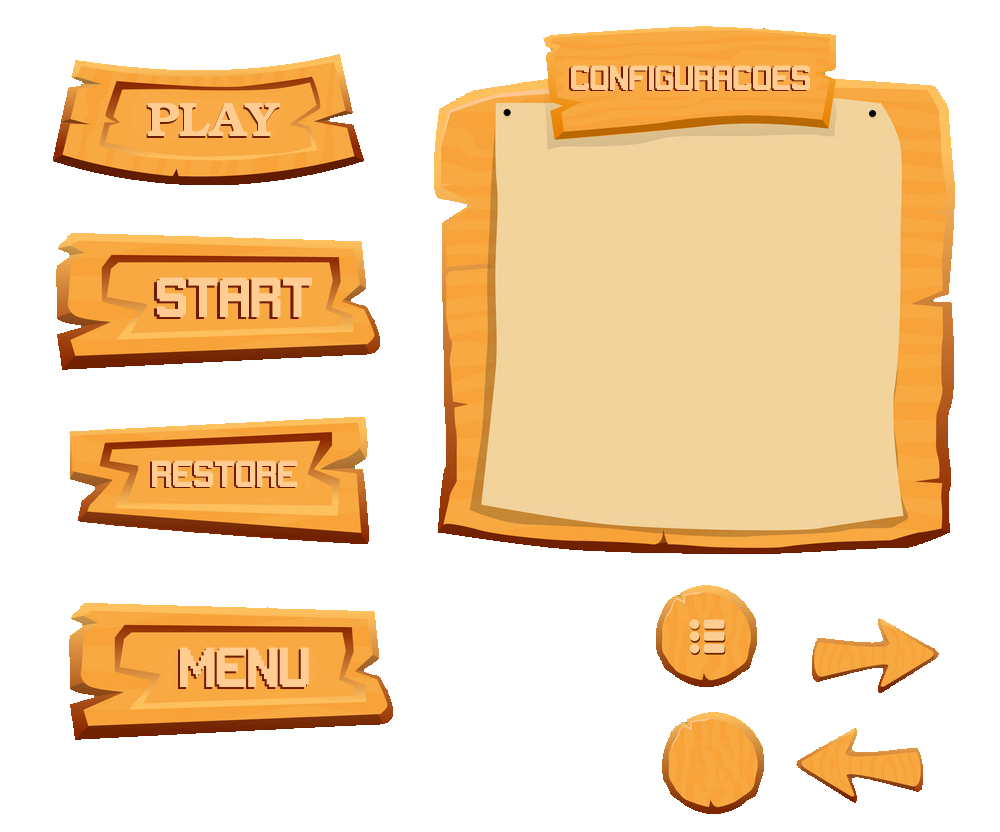
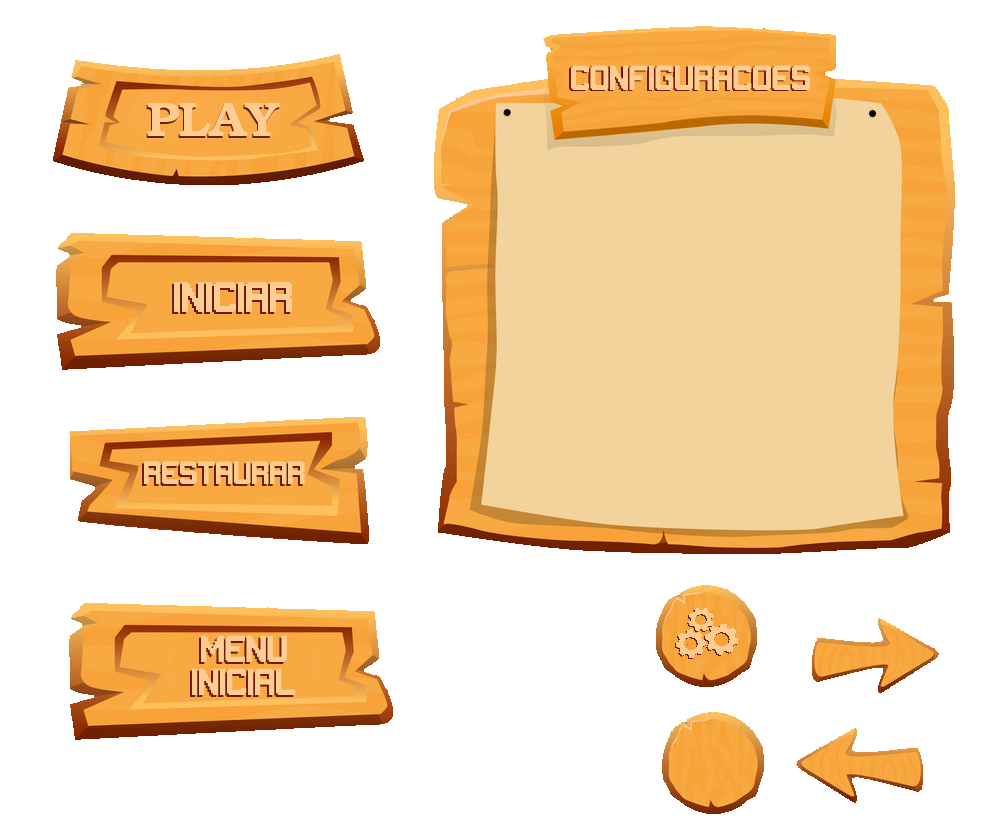
Atualizando alguns botões e corrigindo o bug das vidas infinitas.

diff --git a/MenuFase/Assets/src/Script/Lancamento/ScreenResults.cs b/MenuFase/Assets/src/Script/Lancamento/ScreenResults.cs
@@ -119,22 +119,22 @@ public class ScreenResults : MonoBehaviour
 
     private void OnGUI()
     {
-        Tangle.text = angle.ToString("0");
-        Tvelocity.text = velocity.ToString("0");
+        Tangle.text = angle.ToString("0") + "º";
+        Tvelocity.text = velocity.ToString("0") + " m/s";
     }
 
     public void UpdateResultsText(bool acerto)
     {
-        Ttime.text = "Tempo: " + totalTimer.ToString("0.00");
-        TmaxHigh.text = "Altura máxima: " + maxHeight.ToString("0.00");
-        TdeltaX.text = "Distância horizontal: " + DeltaX.ToString("0.00");
+        Ttime.text = "Tempo: " + totalTimer.ToString("0.00") + " s";
+        TmaxHigh.text = "Altura máxima: " + maxHeight.ToString("0.00") + " m";
+        TdeltaX.text = "Distância horizontal: " + DeltaX.ToString("0.00") + " m";
 
         if (!tutorial.isTutorial)
         {
             if (acerto)
             {
-                TVCorreta.text = "Resposta Correta: Velocidade -  " + velocidadeC.ToString("0.00");
-                TACorreto.text = "                                   Ângulo -  " + anguloC.ToString("0");
+                TVCorreta.text = "Resposta Correta: Velocidade -  " + velocidadeC.ToString("0.00") + " m/s";
+                TACorreto.text = "                                   Ângulo -  " + anguloC.ToString("0") + "º";
             }
             else
             {
@@ -143,8 +143,8 @@ public class ScreenResults : MonoBehaviour
                 TACorreto.text = "                                   Ângulo -  ";
             }
             Tpontuacao.text = "Sua pontuação: " + pontTotal.ToString("0.0");
-            TVUsu.text = "Sua resposta:         Velocidade -  " + auxVel.ToString("0.00");
-            TAUsu.text = "                                   Ângulo -  " + auxAng.ToString("0");
+            TVUsu.text = "Sua resposta:         Velocidade -  " + auxVel.ToString("0.00") + " m/s";
+            TAUsu.text = "                                   Ângulo -  " + auxAng.ToString("0") + "º";
         }
     }
 }

diff --git a/MenuFase/Assets/src/Script/Lancamento/QuestionAnimation.cs b/MenuFase/Assets/src/Script/Lancamento/QuestionAnimation.cs
@@ -113,7 +113,6 @@ public class QuestionAnimation : MonoBehaviour
     {
         if (isQuestion && !tutorial.isTutorial)
         {
-
             Vector3 distaceDelta = altar.position - transform.position;
 
             if (distaceDelta.magnitude < 5)
@@ -181,6 +180,7 @@ public class QuestionAnimation : MonoBehaviour
     IEnumerator ActiveLoseAnimation()
     {
         cube.GetComponent<CuboLan>().AnimationConfig();
+
         yield return new WaitForSeconds(ScenaAnimation.AnimationToLose());
         lancamentoAnimation.HideEnemy();
 
@@ -224,9 +224,5 @@ public class QuestionAnimation : MonoBehaviour
         yield return new WaitForSeconds(5);
 
         screen.SetActive(false);
-
-        menu.interactable = true;
-        start.interactable = true;
-        restore.interactable = true;
     }
 }

diff --git a/MenuFase/Assets/src/Script/Robot/dialog.cs b/MenuFase/Assets/src/Script/Robot/dialog.cs
@@ -2,6 +2,8 @@
 using System.Collections.Generic;
 using UnityEngine;
 using TMPro;
+using UnityEngine.UI;
+
 public class dialog : MonoBehaviour
 {
   public TextMeshProUGUI textDisplay;
@@ -14,6 +16,8 @@ public class dialog : MonoBehaviour
   private int index = 0;
   private float typingSpeed = 0.02f;
   public bool isTalk = false;
+
+  public Button start, restore, menu;
 
   void Start()
   {
@@ -124,6 +128,10 @@ public class dialog : MonoBehaviour
   }
 
   public void ActivateBubbleOtherQuestion(){
+    start.interactable = false;
+    restore.interactable = false;
+    menu.interactable = false;
+
     bubbleText.fontSize = 4;
     bubbleText.text = "Parabéns! Clique em mim para outra questão.";
     this.TalkWithBubble();

diff --git a/MenuFase/Assets/src/Script/Robot/robotClick.cs b/MenuFase/Assets/src/Script/Robot/robotClick.cs
@@ -16,6 +16,7 @@ public class robotClick : MonoBehaviour
   public GameObject timer;
   public Button botaoStart;
   public Button botaoMenu;
+  public Button botaoRestore;
 
   void Awake()
   {
@@ -37,6 +38,7 @@ public class robotClick : MonoBehaviour
         GetComponent<dialog>().Talk();
         botaoStart.interactable = true;
         botaoMenu.interactable = true;
+        botaoRestore.interactable = true;
 
         if(SceneManager.GetActiveScene().name == "Plano")
         {

diff --git a/MenuFase/Assets/src/Script/Queda/Control.cs b/MenuFase/Assets/src/Script/Queda/Control.cs
@@ -55,7 +55,7 @@ public class Control : MonoBehaviour
   {
     cuboQue.SetHeight(h);
     height.value = h;
-    Theight.text = "Altura: " + h;
+    Theight.text = "Altura: " + h + " m";
   }
 
   public void SetEnvironment(float a)

diff --git a/MenuFase/Assets/src/Script/SpecialFuction/GenericAnimations.cs b/MenuFase/Assets/src/Script/SpecialFuction/GenericAnimations.cs
@@ -6,7 +6,6 @@ public class GenericAnimations : MonoBehaviour
 {
   public PlayableDirector winAnimation, loseAnimation, wrongAnimation;
   public GameObject robotSelfCam, buttons;
-
   private robotAnimation robot;
 
   void Start()
